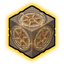
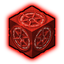
Hidden Cube picture: red like in the game (the stone lit red from inside, nearly white glyphs, red glow); the pulse of the announced cube red

diff --git a/Tools/aion2-icons/render_cube_model.py b/Tools/aion2-icons/render_cube_model.py
@@ -116,12 +116,15 @@ def main():
                 n = [w0 * nrm[a][i] + w1 * nrm[b][i] + w2 * nrm[c][i] for i in range(3)]
                 nl = math.sqrt(sum(q * q for q in n)) or 1
                 lam = max(0.0, (n[0] * light[0] + n[1] * light[1] + n[2] * light[2]) / nl)
-                shade = 0.55 + 0.6 * lam
+                shade = 0.35 + 0.9 * lam
                 er, eg, eb = gp[min(gw - 1, max(0, int(u * gw))), min(gw - 1, max(0, int(v * gw)))]
                 e = max(er, eg) / 255.0   # the glyphs are drawn in the red channel
-                R = min(255, int(r * shade + e * 255))
-                G = min(255, int(g * shade + e * 170))
-                B = min(255, int(bl * shade + e * 30))
+                lum = (0.3 * r + 0.59 * g + 0.11 * bl) / 255.0
+                hot = min(1.0, e * 2.0)
+                # as in the game: the stone is lit red from inside (copper-red by its own brightness), the glyphs are almost white in the red
+                R = min(255, int(255 * min(1.0, lum * shade * 1.35 + 0.05) + hot * 130))
+                G = min(255, int(255 * min(1.0, lum * shade * 0.42) * 0.7 + hot * 185))
+                B = min(255, int(255 * min(1.0, lum * shade * 0.34) * 0.6 + hot * 175))
                 zbuf[y][x] = z
                 ip[x, y] = (R, G, B, 255)
                 ep[x, y] = int(255 * min(1.0, e * 1.6))
@@ -134,16 +137,16 @@ def main():
     for y in range(S):
         for x in range(S):
             if ap_[x, y]:
-                k = min(1.0, sp_[x, y] / 255.0 * 2.4 + wp_[x, y] / 255.0 * 1.6)
+                k = min(1.0, sp_[x, y] / 255.0 * 1.3 + wp_[x, y] / 255.0 * 0.9)
                 r, g, b, a = px[x, y]
-                px[x, y] = (min(255, int(r + k * 255)), min(255, int(g + k * 150)), min(255, int(b + k * 25)), a)
+                px[x, y] = (min(255, int(r + k * 200)), min(255, int(g + k * 40)), min(255, int(b + k * 35)), a)
     # dark outline of one pixel (at the final size) for contrast on the map, then the final size
     alpha = img.getchannel("A")
     ring = alpha.filter(ImageFilter.MaxFilter(2 * max(1, S // size) + 1))
-    outline = Image.new("RGBA", (S, S), (14, 10, 4, 255))
+    outline = Image.new("RGBA", (S, S), (30, 4, 4, 255))
     outline.putalpha(ring)
-    # a soft gold glow hugging the cube (not a frame): the stone alone is brown and grey like the map and gets lost on it
-    halo = Image.new("RGBA", (S, S), (255, 205, 40, 255))
+    # a soft red glow hugging the cube (not a frame): the stone alone is brown and grey like the map and gets lost on it
+    halo = Image.new("RGBA", (S, S), (255, 40, 30, 255))
     halo.putalpha(alpha.filter(ImageFilter.MaxFilter(2 * max(1, S // size) * 2 + 1)).filter(ImageFilter.GaussianBlur(max(2, S // size * 2))).point(lambda v: min(255, int(v * 1.5))))
     final = Image.alpha_composite(Image.alpha_composite(halo, outline), img).resize((size, size), Image.LANCZOS)
     final.save(out, optimize=True)

diff --git a/Client/Ui/PetMapWindows.cs b/Client/Ui/PetMapWindows.cs
@@ -488,7 +488,7 @@ public sealed class PetMapWindow : MovableOverlay
         // the gold cube itself, bigger than the places, with a glow that pulses (no frame around it)
         var cube = new Image { Width = 44, Height = 44, Source = AionDPS.Aion2.Protocol.Aion2Gather.Icon("Hidden Cube"), IsHitTestVisible = false };
         RenderOptions.SetBitmapScalingMode(cube, BitmapScalingMode.HighQuality);
-        var glow = new System.Windows.Media.Effects.DropShadowEffect { BlurRadius = 16, ShadowDepth = 0, Color = Color.FromRgb(0xFF, 0xD0, 0x20), Opacity = 1 };
+        var glow = new System.Windows.Media.Effects.DropShadowEffect { BlurRadius = 16, ShadowDepth = 0, Color = Color.FromRgb(0xFF, 0x30, 0x20), Opacity = 1 };
         glow.BeginAnimation(System.Windows.Media.Effects.DropShadowEffect.BlurRadiusProperty, new System.Windows.Media.Animation.DoubleAnimation(6, 22, TimeSpan.FromMilliseconds(700)) { AutoReverse = true, RepeatBehavior = System.Windows.Media.Animation.RepeatBehavior.Forever });
         cube.Effect = glow;
         var grid = new Grid { Width = 52, Height = 52, IsHitTestVisible = false, Visibility = Visibility.Collapsed };
